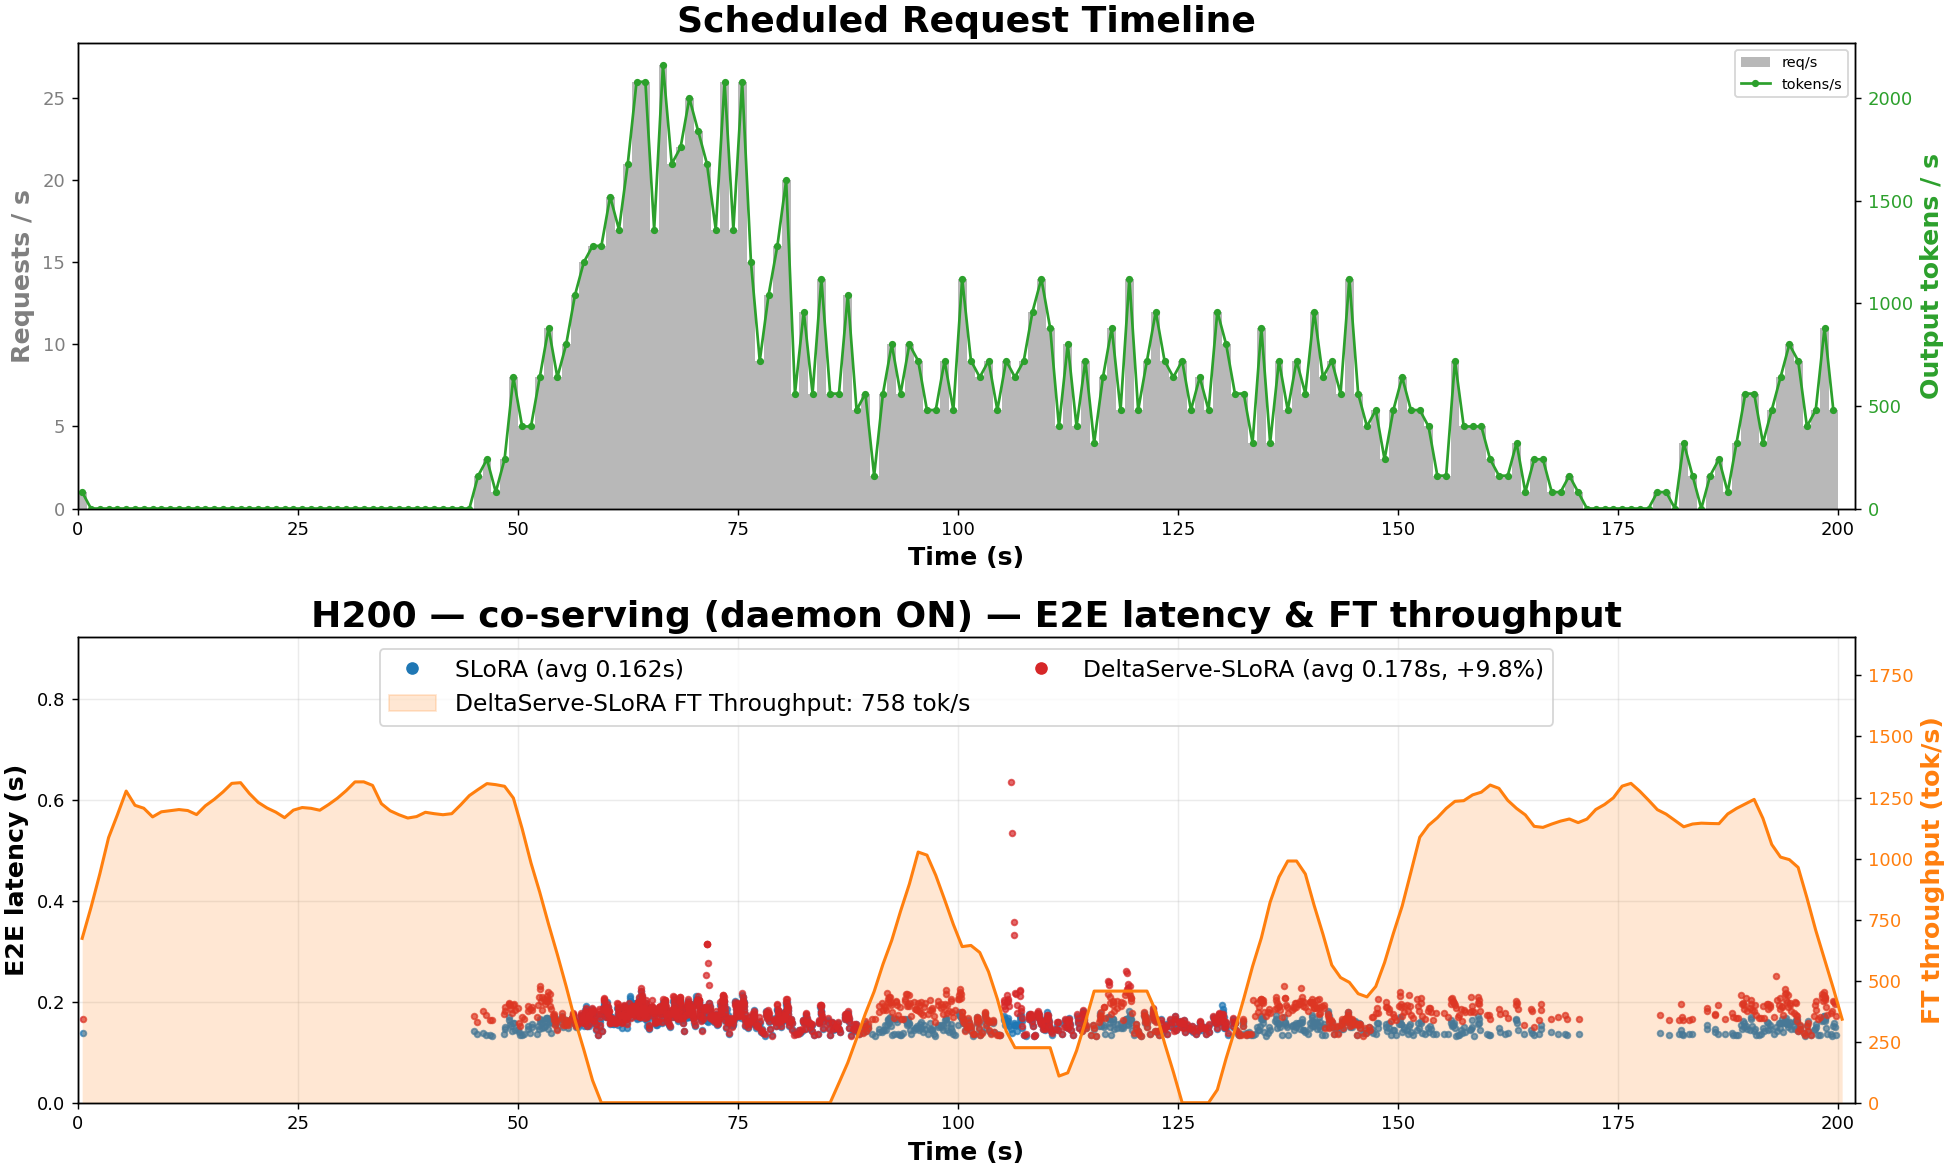
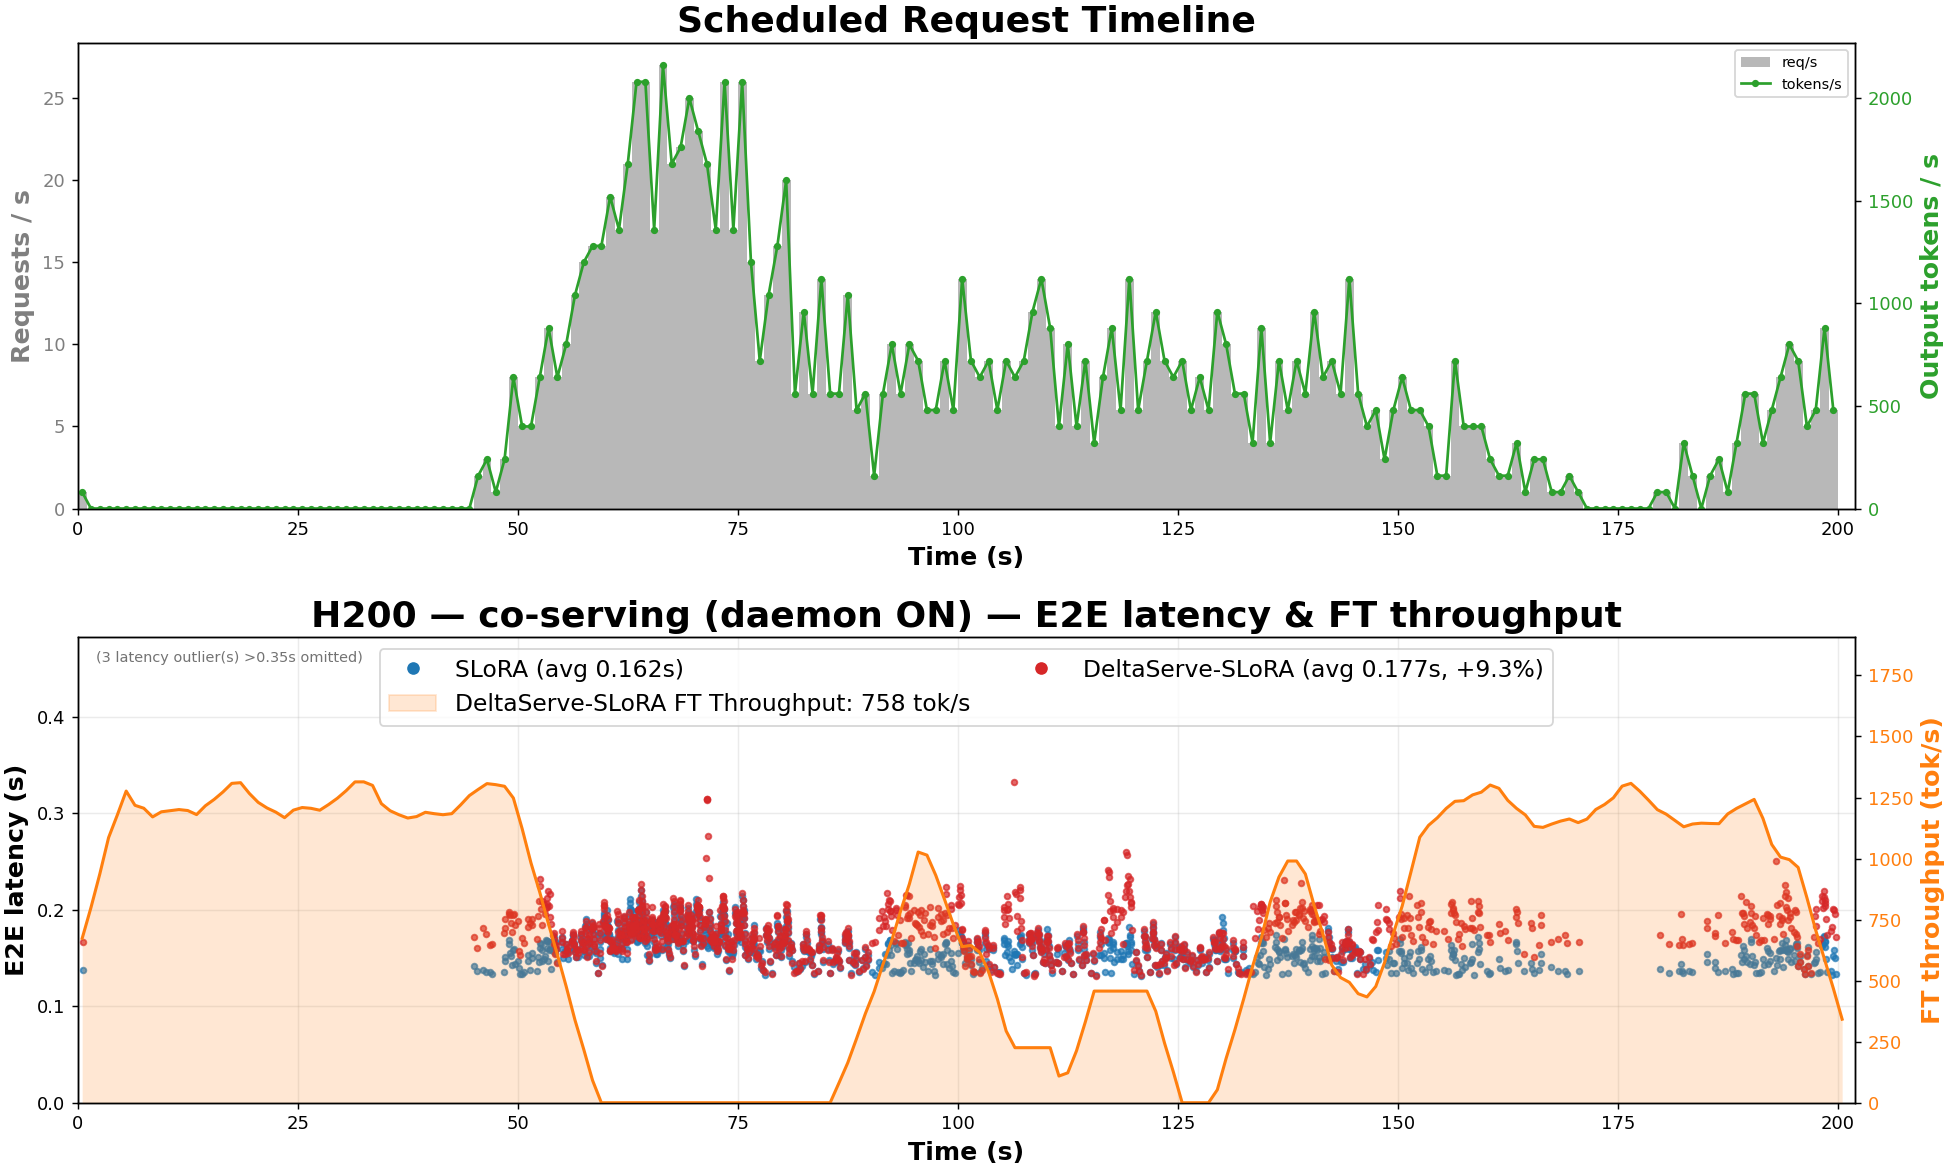
plot: add --lat-clip to omit latency outliers (disclosed on-figure); apply to 200s
Drops 3 transient outliers (>0.35s, all at t~106s) from scatter+avg; CSVs untouched.
DeltaServe avg 0.177s (+9.3%). On-figure note discloses the omission.

diff --git a/sglang-port/v046-port/compare_slora_dserve.py b/sglang-port/v046-port/compare_slora_dserve.py
@@ -352,7 +352,8 @@ def _series_min(res) -> float:
 
 def plot_panel(ax, slora, dserve, bwd_path, tl_base, gpu_name,
                slora_offset=None, dserve_offset=None,
-               ft_offset=0.0, window_s=None, slora_latency_factor=1.0) -> float:
+               ft_offset=0.0, window_s=None, slora_latency_factor=1.0,
+               lat_clip=None) -> float:
     """Two-series latency overlay (left) + DeltaServe FT throughput (right).
     Returns the right-most x so the caller can pin a shared x-limit."""
     if slora_offset is None:
@@ -361,6 +362,20 @@ def plot_panel(ax, slora, dserve, bwd_path, tl_base, gpu_name,
     if dserve_offset is None:
         dserve_offset = _auto_offset(_series_min(dserve), tl_base,
                                      DISPLAY_NAME_DSERVE) if dserve else 0.0
+
+    # Optional: drop latency outliers above lat_clip from BOTH series (scatter +
+    # avg). Disclosed via an on-figure note; the raw CSVs are untouched (record).
+    n_clipped = 0
+    if lat_clip is not None and lat_clip > 0:
+        for r in (slora, dserve):
+            if r is None:
+                continue
+            over = r["ok"] & (r["latency_s"] > lat_clip)
+            n_clipped += int(over.sum())
+            r["ok"] = r["ok"] & (r["latency_s"] <= lat_clip)
+        if n_clipped:
+            print(f"[compare_slora_dserve] lat_clip={lat_clip}s → dropped "
+                  f"{n_clipped} latency outlier(s) from scatter+avg")
 
     t_ends = []
     slora_avg = slora_slow1 = float("nan")
@@ -471,13 +486,17 @@ def plot_panel(ax, slora, dserve, bwd_path, tl_base, gpu_name,
             legend_kwargs["bbox_to_anchor"] = LEGEND_BBOX_TO_ANCHOR
         ax.legend(_row_major_reorder(rows_h, LEGEND_NCOL),
                   _row_major_reorder(rows_l, LEGEND_NCOL), **legend_kwargs)
+    if n_clipped:
+        ax.text(0.01, 0.97, f"({n_clipped} latency outlier(s) >{lat_clip:g}s omitted)",
+                transform=ax.transAxes, ha="left", va="top",
+                fontsize=8, color="0.45")
     return t_max
 
 
 def build_figure(timeline_path, slora_path, dserve_path, bwd_path, gpu_name,
                  slora_offset=None, dserve_offset=None,
                  ft_offset=0.0, window_s=None,
-                 slora_latency_factor=1.0) -> plt.Figure:
+                 slora_latency_factor=1.0, lat_clip=None) -> plt.Figure:
     row_unit = FIGSIZE[1] / sum(HEIGHT_RATIOS)
     fig = plt.figure(figsize=(FIGSIZE[0], row_unit * sum(HEIGHT_RATIOS)),
                      constrained_layout=True)
@@ -540,7 +559,7 @@ def build_figure(timeline_path, slora_path, dserve_path, bwd_path, gpu_name,
         ax, slora, dserve, bwd_path, tl_base, gpu_name,
         slora_offset=slora_offset, dserve_offset=dserve_offset,
         ft_offset=ft_offset, window_s=window_s,
-        slora_latency_factor=slora_latency_factor)
+        slora_latency_factor=slora_latency_factor, lat_clip=lat_clip)
 
     t_max = max(panel_tmax, tl_max)
     if t_max > 0:
@@ -591,6 +610,11 @@ def main() -> None:
                     help="Multiply SLoRA E2E latency by this factor to put it on "
                          "the DeltaServe (llama3) model footing — SLoRA runs "
                          f"llama1. Default: {SLORA_LATENCY_FACTOR}. Use 1.0 to disable.")
+    ap.add_argument("--lat-clip", type=float, default=None,
+                    help="Drop E2E-latency points above this many seconds from "
+                         "the scatter + avg (a disclosed note is drawn on the "
+                         "figure; the CSVs keep all rows). Use to omit transient "
+                         "outliers. Default: keep all.")
     ap.add_argument("--output", default=None,
                     help="Output PNG path. Default: "
                          "<dir>/compare_slora_dserve.png next to --dserve.")
@@ -602,7 +626,7 @@ def main() -> None:
         args.timeline, args.slora, args.dserve, args.bwd, args.gpu_name,
         slora_offset=args.slora_offset, dserve_offset=args.dserve_offset,
         ft_offset=args.ft_offset, window_s=args.window,
-        slora_latency_factor=args.slora_latency_factor)
+        slora_latency_factor=args.slora_latency_factor, lat_clip=args.lat_clip)
     os.makedirs(os.path.dirname(os.path.abspath(out_path)), exist_ok=True)
     fig.savefig(out_path, dpi=PNG_DPI)
     print(f"[compare_slora_dserve] wrote figure → {out_path}")
